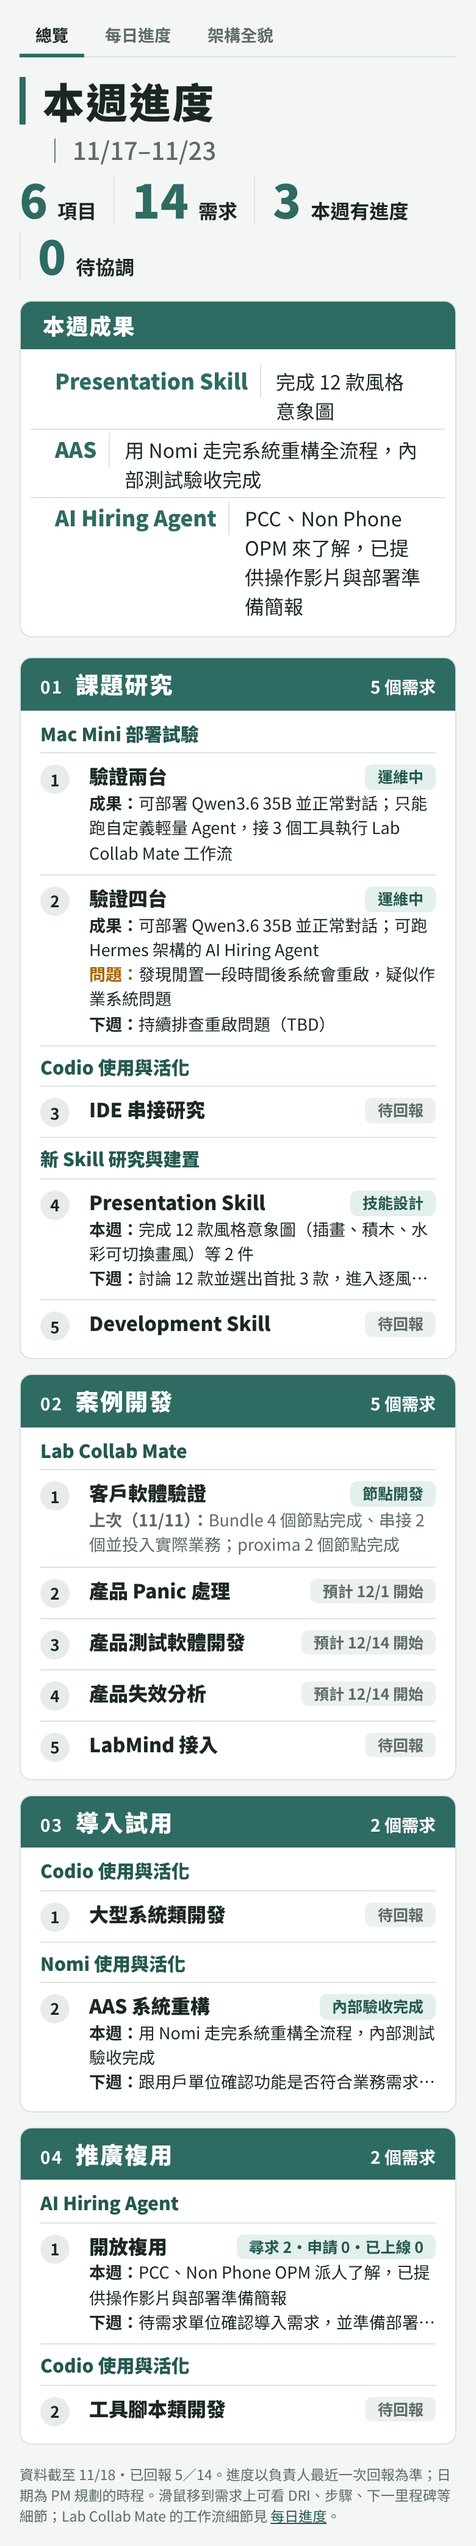
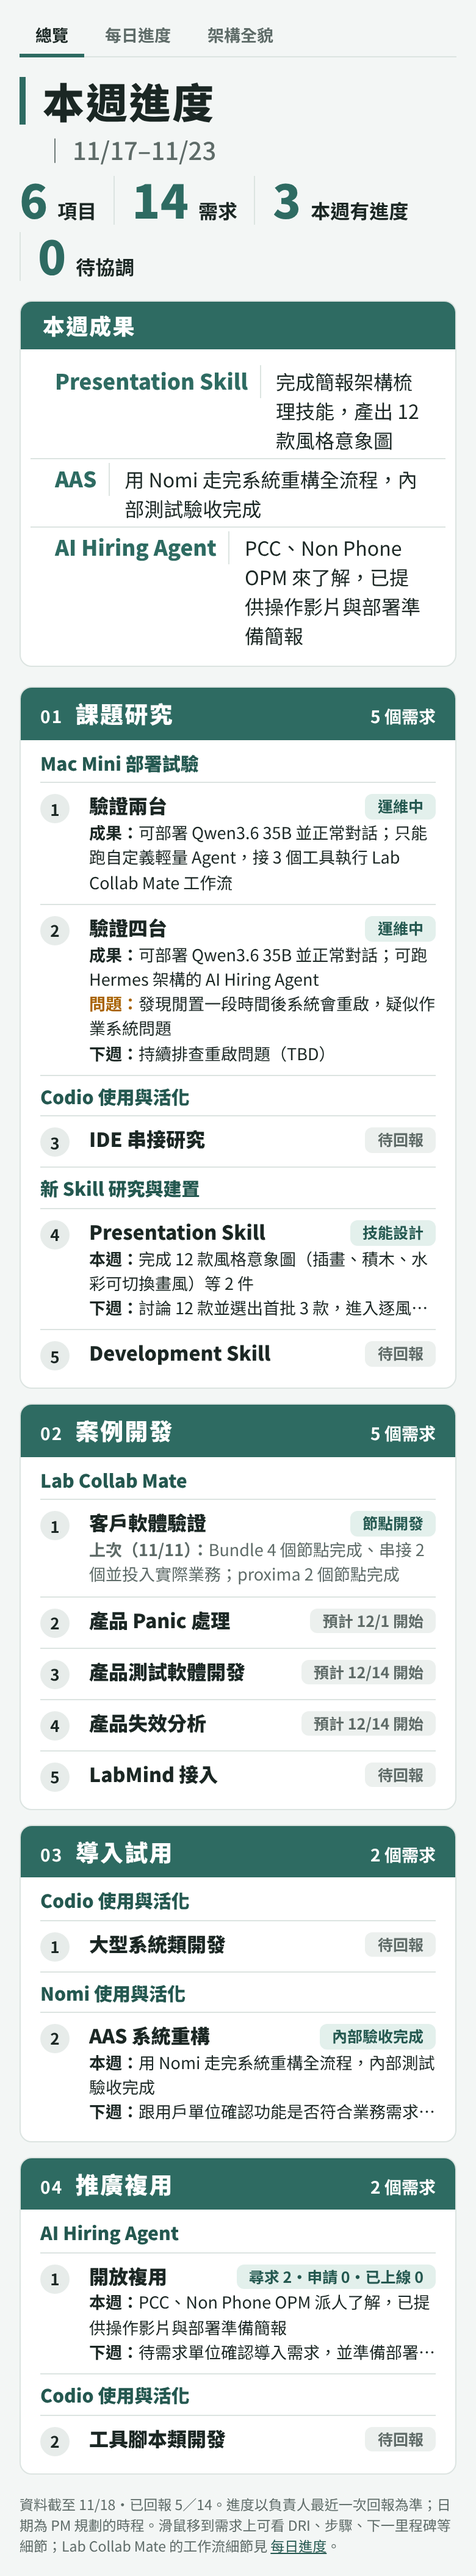
[2026-11-17_overview-redesign] Presentation Skill 本週成果用詞：完成簡報架構梳理技能，產出 12 款風格意象圖
Claude-Session: https://claude.ai/code/session_01Cd6Gft6mTX8zcMZinAmXya

diff --git a/public/index.html b/public/index.html
@@ -192,7 +192,7 @@ const MODULES = [
      rep:{now:1,
           done:["完成 12 款風格意象圖（插畫、積木、水彩可切換畫風）", "依審閱回饋重做顧問報告、週報、攝影雜誌三款"],
           next:["討論 12 款並選出首批 3 款，進入逐風格設計排法"],
-          hl:[{i:0, s:"Presentation Skill", t:"完成 12 款風格意象圖"}]}},
+          hl:[{i:0, s:"Presentation Skill", t:"完成簡報架構梳理技能，產出 12 款風格意象圖"}]}},
     {proj:"新 Skill 研究與建置", name:"Development Skill", type:"deliver", dri:null, steps:SKILL, rel:"由 Codio 執行，InvestGo 驗證",
      sub:{at:2, items:["需求梳理","SRS","原型設計","開發設計文檔","程式碼生成校正","上線運維","測試用例生成"]}, rep:null}
   ]},
